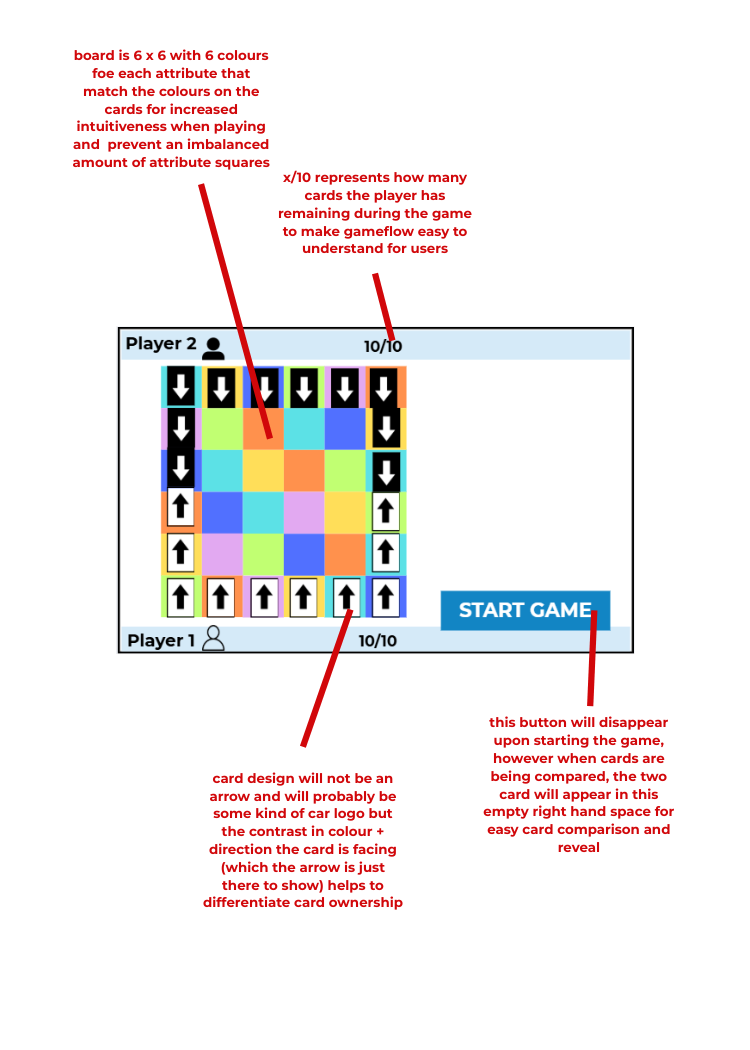
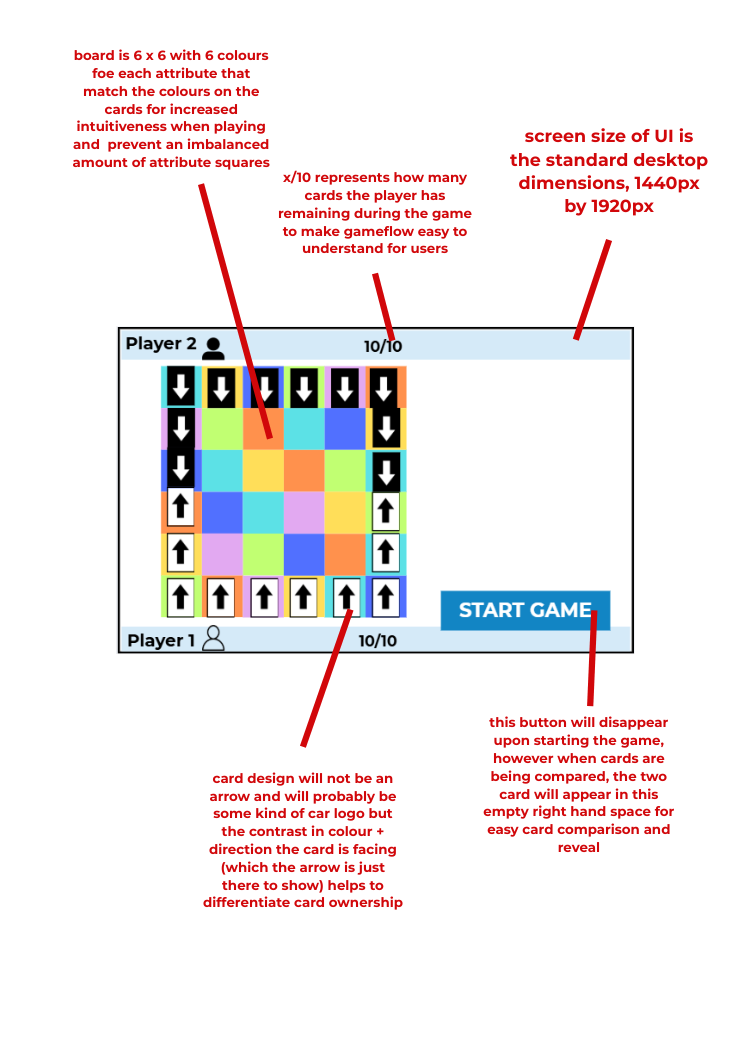
chore: last minute changes to part B
cleaning up part B and making sure everything is right

Changed region(s): [[0.6747, 0.1219, 0.9507, 0.3352]]

diff --git a/DOCUMENTATION.md b/DOCUMENTATION.md
@@ -25,13 +25,13 @@
 
 ## Part B - Class Design
 ### Car
-The Car class stores all the information and statistics of attributes on a specific car that will be on the cards in the game. 
+The Car class stores the data attributes and behaviours associated with a specific vehicle.
 
 <img src="./images/car_class.jpeg" alt="Car Class Diagram" width="500" height="450">
 
 
 ### Card
-Represents a playable card on the board, where each contains a car object. This class manages how a card can move into a new position, or when it can be flipped.
+Represents a playable card on the board, where each contains a car object. This class manages the state and behaviour of a playable card.
 
 <img src="./images/card_class.jpeg" alt="Card Class Diagram" width="600" height="450">
 
@@ -113,7 +113,7 @@ The game may encourage some bias towards high-performance or rare cars because t
 
 **What responsibilities do you have as a designer to present fair information?**
 
-As a designer, I must ensure any data and information are from verified sources, with thorough examination of the reliability of the author, site's sources and the organisation's reputability in this field. Furthermore, I would cross-reference any data obtained to confirm its reliability as to minimise inconsistencies and unfair presentation. 
+As a designer, I must ensure any data and information are from validated data sources, with thorough examination of the data integrity and reliability of the author, site's sources and the organisation's reputability in this field. Furthermore, I would cross-reference any data obtained to confirm its reliability as to minimise inconsistencies and unfair presentation. 
 
 
 ---